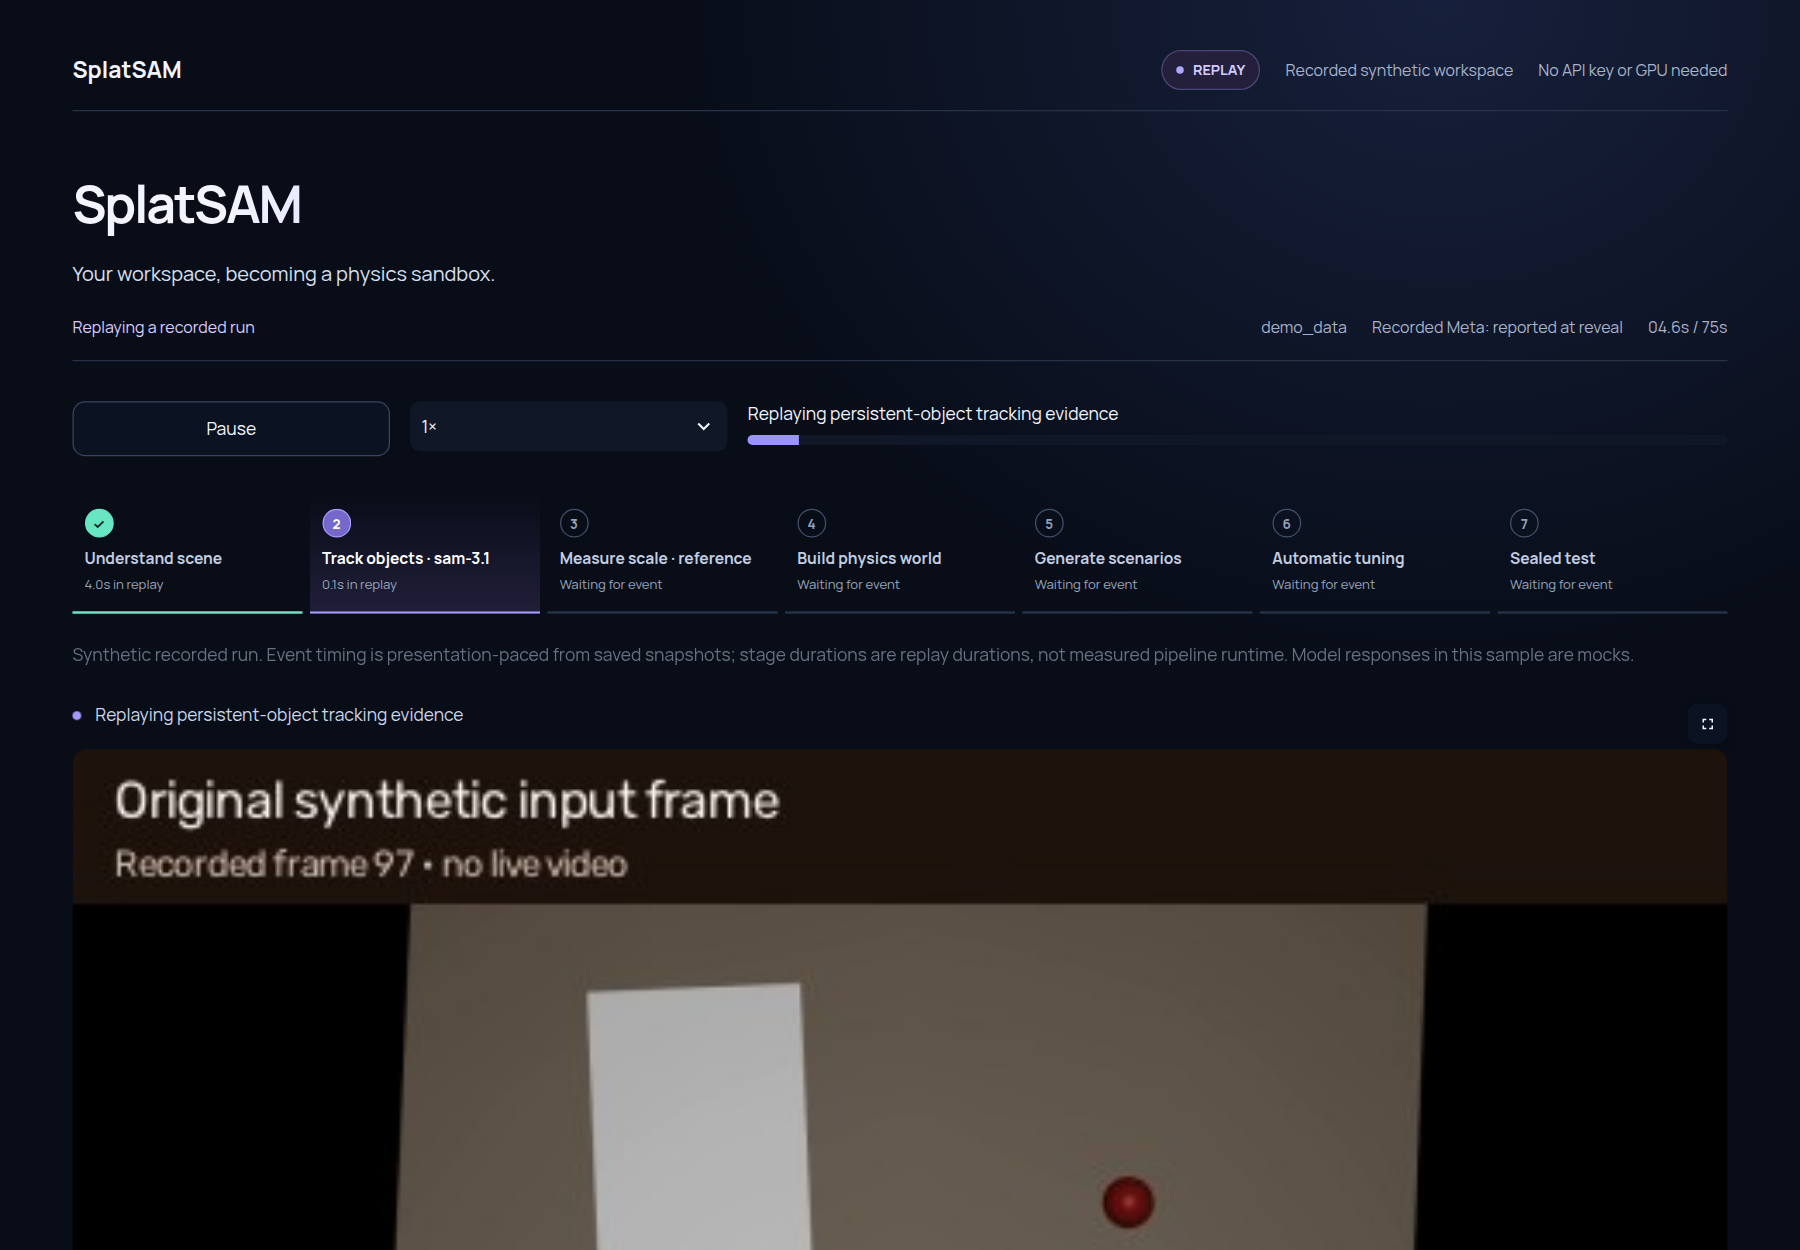
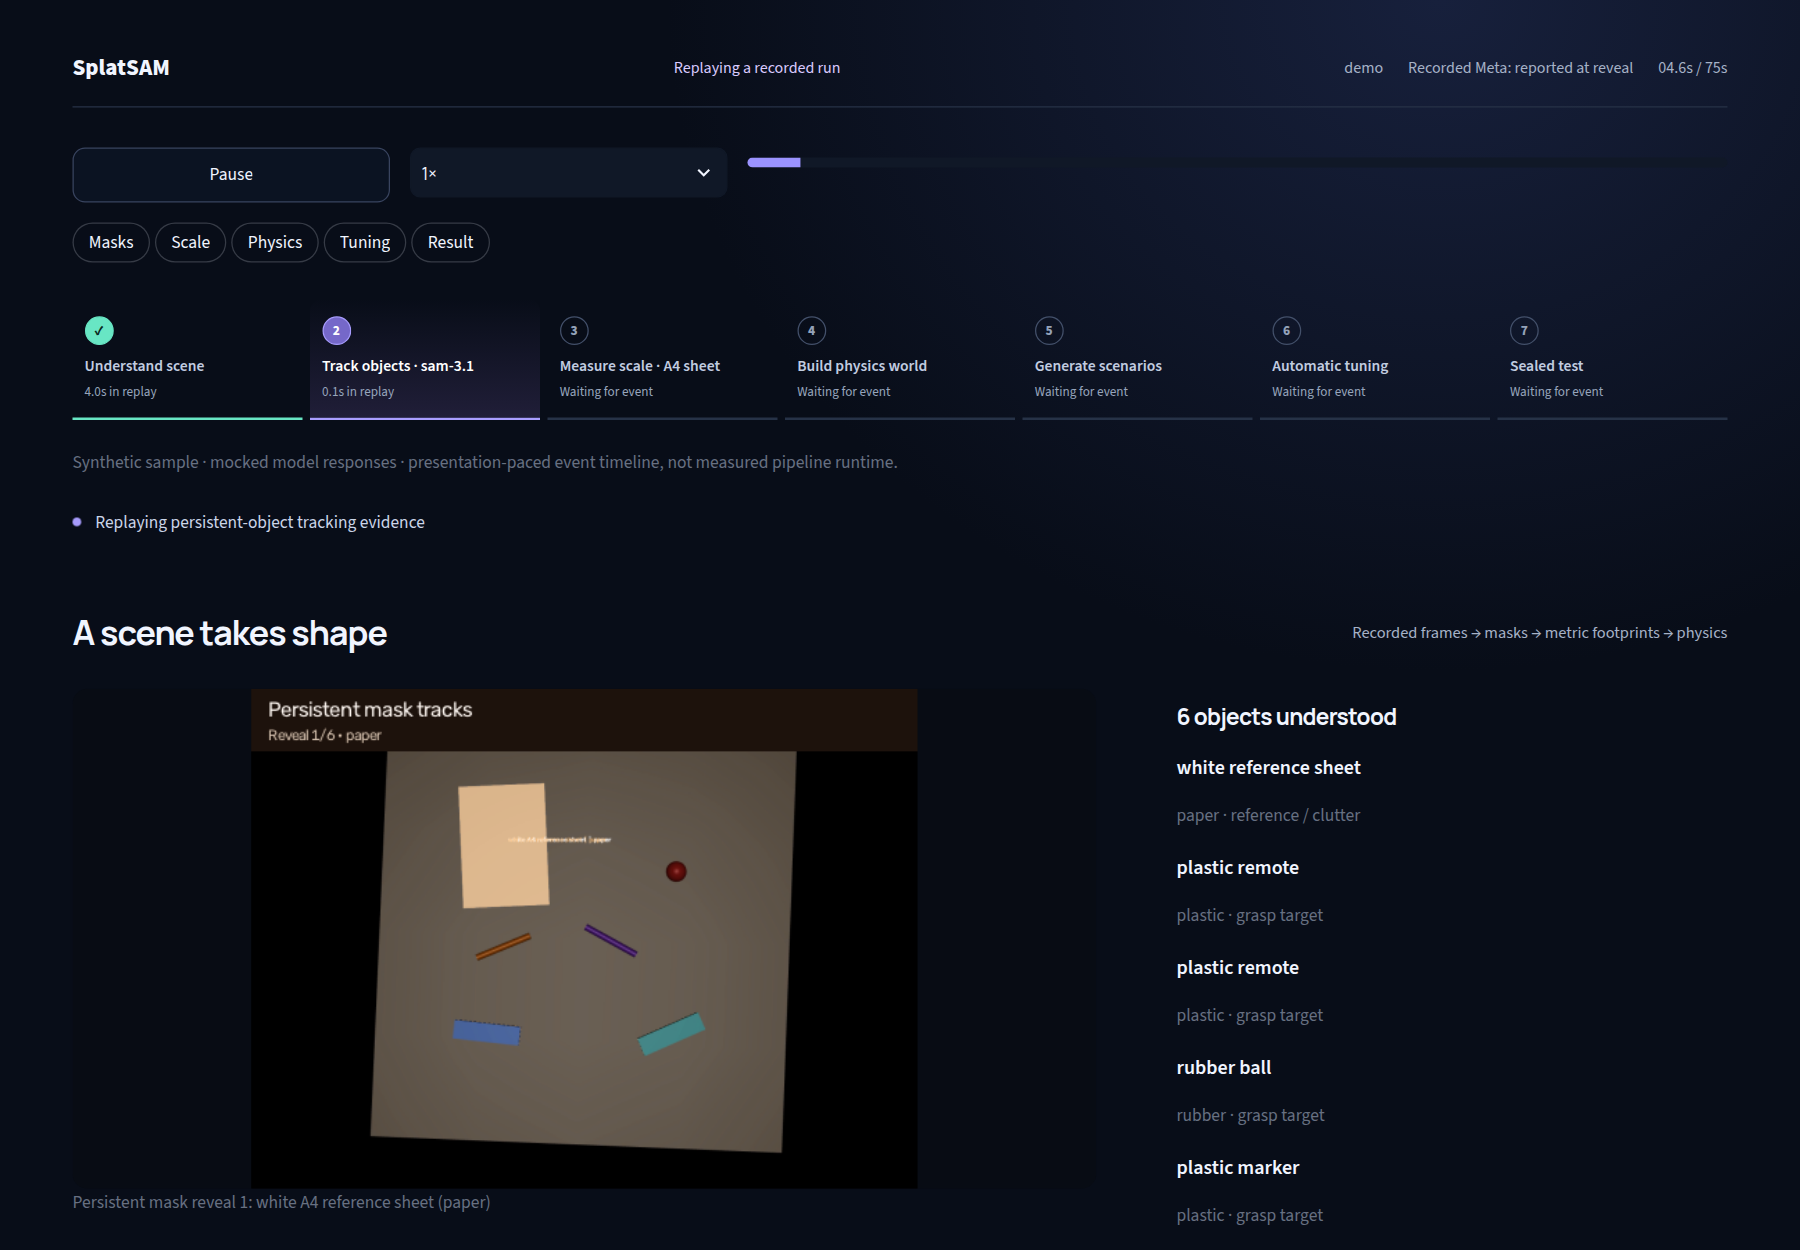
Ship progressive scene reveal and honest sealed-result finale

diff --git a/dashboard/styles.css b/dashboard/styles.css
@@ -1,6 +1,6 @@
 :root{color-scheme:dark;--bg:#080d18;--panel:#101827;--fg:#f1f5ff;--muted:#a6b2c7;--border:#273247;--accent:#9b93ff;--mint:#68e6c4;--error:#ff8e9d;--warning:#f6cb80}
 .stApp{background:radial-gradient(ellipse at 80% 0%,#17203c 0,transparent 38%),var(--bg);color:var(--fg)}
-html,body,[class*="st-"]{font-family:'Manrope',sans-serif}h1,h2,h3,p{overflow-wrap:anywhere}h1,h2,h3{font-family:'Manrope',sans-serif!important;letter-spacing:-.03em!important}h2{font-size:1.7rem!important;font-weight:700!important}h3{font-size:1.13rem!important}
+html,body,.stApp,input,button,textarea,select{font-family:'Manrope',sans-serif}[data-testid="stMain"]{overflow-anchor:none}h1,h2,h3,p{overflow-wrap:anywhere}h1,h2,h3{font-family:'Manrope',sans-serif!important;letter-spacing:-.03em!important}h2{font-size:1.7rem!important;font-weight:700!important}h3{font-size:1.13rem!important}
 .block-container{max-width:1420px;padding:1.5rem 3rem 4rem}.stMainBlockContainer{padding-top:1.5rem!important}header[data-testid="stHeader"]{background:transparent;height:0}#MainMenu,footer,[data-testid="stToolbar"],[data-testid="stDecoration"]{display:none!important}
 [data-testid="stSidebar"]{background:#0c1321}[data-testid="stCaptionContainer"],.stCaption{color:var(--muted)!important}a{color:#b5b0ff;text-underline-offset:4px}::selection{background:#6761b9;color:white}*:focus-visible{outline:3px solid var(--mint)!important;outline-offset:3px}input{caret-color:var(--mint)}::-webkit-scrollbar{width:8px}::-webkit-scrollbar-track{background:var(--bg)}::-webkit-scrollbar-thumb{background:#39455c;border-radius:6px}
 .topbar{display:flex;justify-content:space-between;align-items:center;border-bottom:1px solid var(--border);padding:0 0 1rem;margin-bottom:2rem;gap:1rem;font-size:.8rem;color:var(--muted);flex-wrap:wrap}.brand-small{font-weight:800;font-size:1.15rem;color:var(--fg)}.topbar-right{display:flex;align-items:center;gap:1.25rem;flex-wrap:wrap}.mode-pill,.badge{display:inline-flex;align-items:center;gap:.45rem;font-weight:700;font-size:.72rem;border-radius:40px;padding:.35rem .7rem;border:1px solid #4a4676;color:#d1ccff;background:#24203c}.mode-pill::before{content:'';width:6px;height:6px;border-radius:50%;background:#aea6ff}.badge.success{background:#102e2b;border-color:#23564d;color:#83edce}.badge.rejected{background:#311d2a;border-color:#673747;color:#ffacb7}.badge.pending{background:#2c281c;border-color:#5f5132;color:#f6cb80}

diff --git a/dashboard/panels.py b/dashboard/panels.py
@@ -10,7 +10,6 @@ from pathlib import Path
 
 import plotly.graph_objects as go
 import streamlit as st
-import streamlit.components.v1 as components
 
 COLORS = {"accent": "#aaa2ff", "mint": "#68e6c4", "muted": "#a6b2c7", "error": "#ff8e9d"}
 FAILURES = {
@@ -136,7 +135,7 @@ def render_tuning(run: Path, report: dict, media: dict, state: dict, position: f
             ) or file(run, "grasp.mp4")
             label = "Saved final-planner demonstration · synthetic scenario 0"
         else:
-            clip = file(run, paired.get("baseline"))
+            clip = file(run, mapping(paired.get("baseline")).get("path"))
             label = f"Saved baseline demonstration · synthetic scenario {paired.get('seed', '—')}"
         if not clip:
             clip = file(run, "grasp.mp4")
@@ -231,7 +230,7 @@ def render_tuning(run: Path, report: dict, media: dict, state: dict, position: f
             fig.update_xaxes(title="Proposal round", dtick=1)
             st.plotly_chart(
                 plot_style(fig),
-                use_container_width=True,
+                width="stretch",
                 config={"displayModeBar": False},
                 key="round_success",
             )
@@ -256,7 +255,7 @@ def render_tuning(run: Path, report: dict, media: dict, state: dict, position: f
             failures.update_xaxes(dtick=1)
             st.plotly_chart(
                 plot_style(failures, height=220),
-                use_container_width=True,
+                width="stretch",
                 config={"displayModeBar": False},
                 key="round_failures",
             )
@@ -276,11 +275,13 @@ def render_tuning(run: Path, report: dict, media: dict, state: dict, position: f
             a, b = st.columns(2)
             with a:
                 show_video(
-                    file(run, paired.get("baseline")), f"Baseline · seed {paired.get('seed')} · failed"
+                    file(run, mapping(paired.get("baseline")).get("path")),
+                    f"Baseline · seed {paired.get('seed')} · failed",
                 )
             with b:
                 show_video(
-                    file(run, paired.get("final")), f"Final planner · seed {paired.get('seed')} · succeeded"
+                    file(run, mapping(paired.get("final")).get("path")),
+                    f"Final planner · seed {paired.get('seed')} · succeeded",
                 )
             st.caption(
                 paired.get(
@@ -343,10 +344,11 @@ def comparison_slider(before: Path | None, after: Path | None):
         st.info("Both comparison images have not been exported.")
         return
     a, b = image_uri(str(before), before.stat().st_mtime_ns), image_uri(str(after), after.stat().st_mtime_ns)
-    components.html(
+    st.iframe(
         f'''<style>*{{box-sizing:border-box}}body{{margin:0;background:#0d1625;color:#e7edfc;font:13px system-ui}}.compare{{position:relative;height:330px;border-radius:12px;overflow:hidden}}img{{position:absolute;width:100%;height:100%;object-fit:contain;background:#090e18}}#front{{clip-path:inset(0 50% 0 0)}}.labels{{position:absolute;inset:12px 12px auto;display:flex;justify-content:space-between}}.labels span{{background:#111b2de8;padding:6px 9px;border-radius:6px}}input{{width:calc(100% - 30px);margin:14px 15px;accent-color:#a99eff;min-height:26px}}input:focus-visible{{outline:3px solid #68e6c4;outline-offset:2px}}</style><div class="compare"><img src="{b}" alt="Estimated physics scene"><img id="front" src="{a}" alt="Recorded source frame"><div class="labels"><span>Recorded frame</span><span>Estimated simulation</span></div></div><label for="wipe" style="position:absolute;left:-10000px">Compare recorded frame and estimated simulation</label><input id="wipe" type="range" min="0" max="100" value="50" aria-label="Comparison slider"><script>document.getElementById('wipe').addEventListener('input',function(){{document.getElementById('front').style.clipPath='inset(0 '+(100-this.value)+'% 0 0)'}})</script>''',
         height=395,
-        scrolling=False,
+        tab_index=0,
+        alt="Recorded source and estimated simulation comparison",
     )
     st.caption(
         "Drag or use arrow keys. The views use different cameras; this is a visual comparison, not pixel registration."
@@ -367,7 +369,9 @@ def render_scene(run: Path, report: dict, media: dict, state: dict, elapsed: flo
     )
     candidates = [f for f in frames if f.get("stage") == stage and f.get("kind") == "image"]
     if stage == "track":
-        count = len(items(state.get("objects")))
+        track_elapsed = number(mapping(stages.get("track")).get("duration_s")) or 0
+        track_total = number(mapping(state.get("stage_durations")).get("track")) or 1
+        count = 1 + int(track_elapsed / max(track_total, 0.001) * len(candidates))
         selected = candidates[min(max(count - 1, 0), len(candidates) - 1)] if candidates else {}
     elif stage == "build" and candidates:
         duration = number(mapping(stages.get("build")).get("duration_s")) or 0
@@ -430,7 +434,7 @@ def render_scene(run: Path, report: dict, media: dict, state: dict, elapsed: flo
                     }
                 )
             if rows:
-                st.dataframe(rows, hide_index=True, use_container_width=True)
+                st.dataframe(rows, hide_index=True, width="stretch")
             st.caption(
                 "Visual consistency measures footprint appearance only—not mass, height, friction or physical accuracy."
             )
@@ -453,9 +457,10 @@ def render_final(run: Path, report: dict, state: dict):
     values = [number(baseline.get("success_rate")), number(selected.get("success_rate"))]
     if all(v is not None for v in values):
         data = json.dumps([v * 100 for v in values])
-        components.html(
+        st.iframe(
             f'''<style>body{{margin:0;font-family:system-ui;color:#edf3ff;background:transparent}}.row{{display:flex;gap:24px;padding:14px 0}}.card{{flex:1;padding:20px;border-radius:12px;background:#111c2e}}small{{color:#b6c4dc}}strong{{display:block;font-size:44px;letter-spacing:-2px;margin-top:8px}}.final{{color:#78e5c5}}</style><div class="row"><div class="card"><small>Baseline · sealed test</small><strong id="b" aria-label="{values[0] * 100:.1f} percent">{values[0] * 100:.1f}%</strong></div><div class="card"><small>Final · sealed test</small><strong class="final" id="f" aria-label="{values[1] * 100:.1f} percent">{values[1] * 100:.1f}%</strong></div></div><script>const ends={data};if(!matchMedia('(prefers-reduced-motion: reduce)').matches){{const start=performance.now();function draw(t){{const p=Math.min((t-start)/850,1);['b','f'].forEach((id,i)=>document.getElementById(id).textContent=(ends[i]*(1-Math.pow(1-p,3))).toFixed(1)+'%');if(p<1)requestAnimationFrame(draw)}}requestAnimationFrame(draw)}}</script>''',
             height=155,
+            alt="Baseline and final sealed test success rates",
         )
     fig = go.Figure()
     for name, row, color in (("Baseline", baseline, COLORS["accent"]), ("Final", selected, COLORS["mint"])):
@@ -484,7 +489,7 @@ def render_final(run: Path, report: dict, state: dict):
     fig.update_layout(showlegend=False)
     st.plotly_chart(
         plot_style(fig, height=200),
-        use_container_width=True,
+        width="stretch",
         config={"displayModeBar": False},
         key="sealed_ci",
     )
@@ -513,7 +518,7 @@ def render_final(run: Path, report: dict, state: dict):
                         path.read_bytes(),
                         file_name=f"splatsam-{name}",
                         mime=mime,
-                        use_container_width=True,
+                        width="stretch",
                     )
                 except OSError:
                     st.caption(f"{name} is not available.")
@@ -550,7 +555,8 @@ def render_autopsy(run: Path, media: dict, state: dict):
         pair = mapping(media.get("paired"))
         if row.get("seed") == pair.get("seed") and pair.get("status") == "available":
             show_video(
-                file(run, pair.get("baseline")), "Saved baseline clip for this synthetic training seed"
+                file(run, mapping(pair.get("baseline")).get("path")),
+                "Illustrative baseline clip for this seed; the selected cached planner variant was not recorded",
             )
         else:
             st.info(

diff --git a/dashboard/app.py b/dashboard/app.py
@@ -170,7 +170,7 @@ def render_upload(run: Path, media: dict) -> None:
         )
         left, right = st.columns([1, 1])
         with left:
-            if st.button("Use sample video", use_container_width=True):
+            if st.button("Use sample video", width="stretch"):
                 st.session_state.sample_selected = True
         with right:
             st.caption("12 seconds · six objects · A4 scale reference")
@@ -185,7 +185,7 @@ def render_upload(run: Path, media: dict) -> None:
                 destination.parent.mkdir(parents=True, exist_ok=True)
                 destination.write_bytes(uploaded.getbuffer())
                 st.success(f"Saved privately as {destination.name}. No inference started.")
-            st.button("Build my robot sandbox", type="primary", disabled=True, use_container_width=True)
+            st.button("Build my robot sandbox", type="primary", disabled=True, width="stretch")
             st.caption(
                 "Choose Use sample video to launch the replay. Live launch is hidden rather than bypassing privacy, calibration or sealed-test approvals."
             )
@@ -196,7 +196,7 @@ def render_upload(run: Path, media: dict) -> None:
             st.button(
                 "Build my robot sandbox",
                 type="primary",
-                use_container_width=True,
+                width="stretch",
                 on_click=start_replay,
                 disabled=not bool(events_for(run)),
             )
@@ -211,16 +211,26 @@ def render_replay(run: Path, report: dict, media: dict, events: list[dict]) -> N
     offsets = {"Result": duration}
     chapter_stages = {"track": "Masks", "scale": "Scale", "build": "Physics", "tune": "Tuning"}
     round_times = []
+    stage_starts = {}
+    stage_durations = {}
     for event, timestamp in zip(events, times, strict=True):
         if event.get("type") == "stage_started":
+            stage_starts[event.get("payload", {}).get("stage")] = timestamp
             chapter = chapter_stages.get(event.get("payload", {}).get("stage"))
             if chapter:
                 offsets[chapter] = min(timestamp + 2, duration)
+        elif event.get("type") == "stage_finished":
+            stage = event.get("payload", {}).get("stage")
+            if stage in stage_starts:
+                stage_durations[stage] = max(0.0, timestamp - stage_starts[stage])
+        elif event.get("type") == "scene_built":
+            offsets["Physics"] = min(timestamp + 0.1, duration)
         elif event.get("type") == "round_finished":
             round_times.append(timestamp)
     if round_times:
         offsets["Tuning"] = round_times[max(0, len(round_times) - 2)] + 0.1
     st.session_state.chapter_offsets = offsets
+    state["stage_durations"] = stage_durations
     cost = state.get("cost_usd") or {}
     recorded_cost = cost.get("meta_usd")
     if recorded_cost is None and state.get("llm_calls"):
@@ -238,12 +248,12 @@ def render_replay(run: Path, report: dict, media: dict, events: list[dict]) -> N
     controls = st.columns([1, 1, 3])
     with controls[0]:
         if position >= duration:
-            st.button("Restart", on_click=start_replay, use_container_width=True)
+            st.button("Restart", on_click=start_replay, width="stretch")
         else:
             st.button(
                 "Pause" if st.session_state.get("replay_playing") else "Resume",
                 on_click=pause_or_resume,
-                use_container_width=True,
+                width="stretch",
             )
     with controls[1]:
         st.selectbox(
@@ -334,7 +344,7 @@ def main() -> None:
         with right:
             preview = asset(run, "presentation/scene_upright.png") or asset(run, "sim.png")
             if preview:
-                st.image(str(preview), use_container_width=True)
+                st.image(str(preview), width="stretch")
         render_upload(run, media)
     else:
         if not events:
